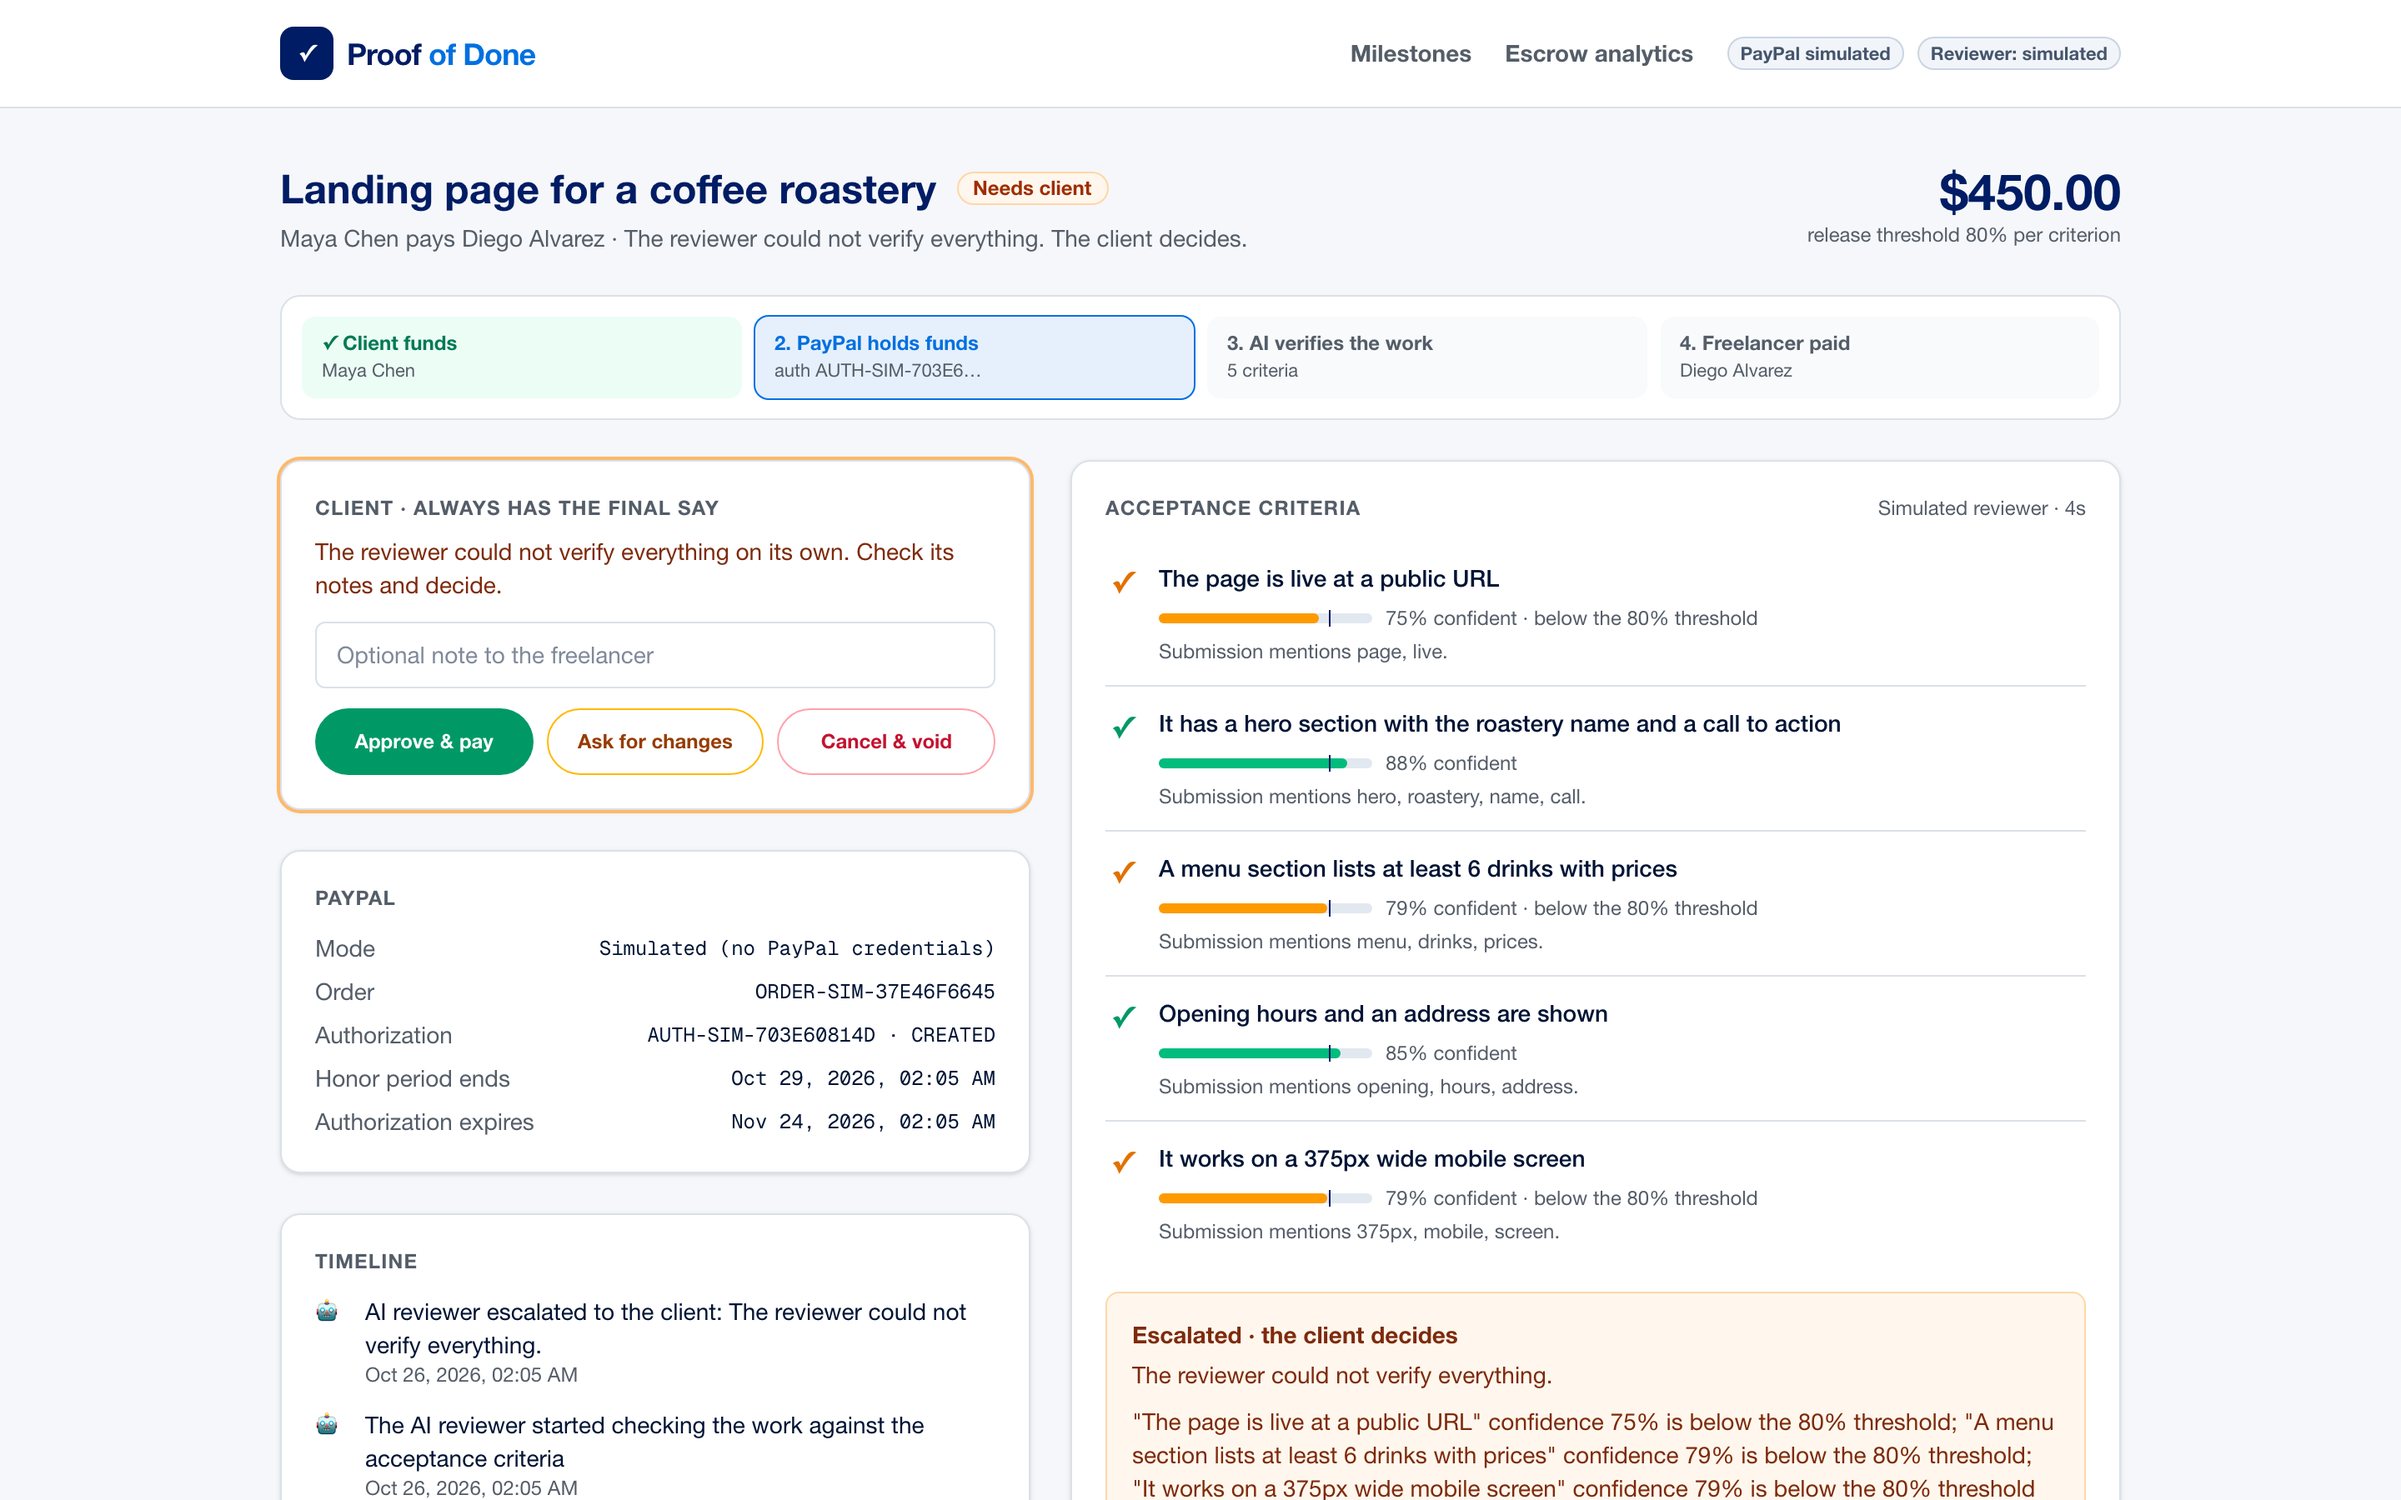
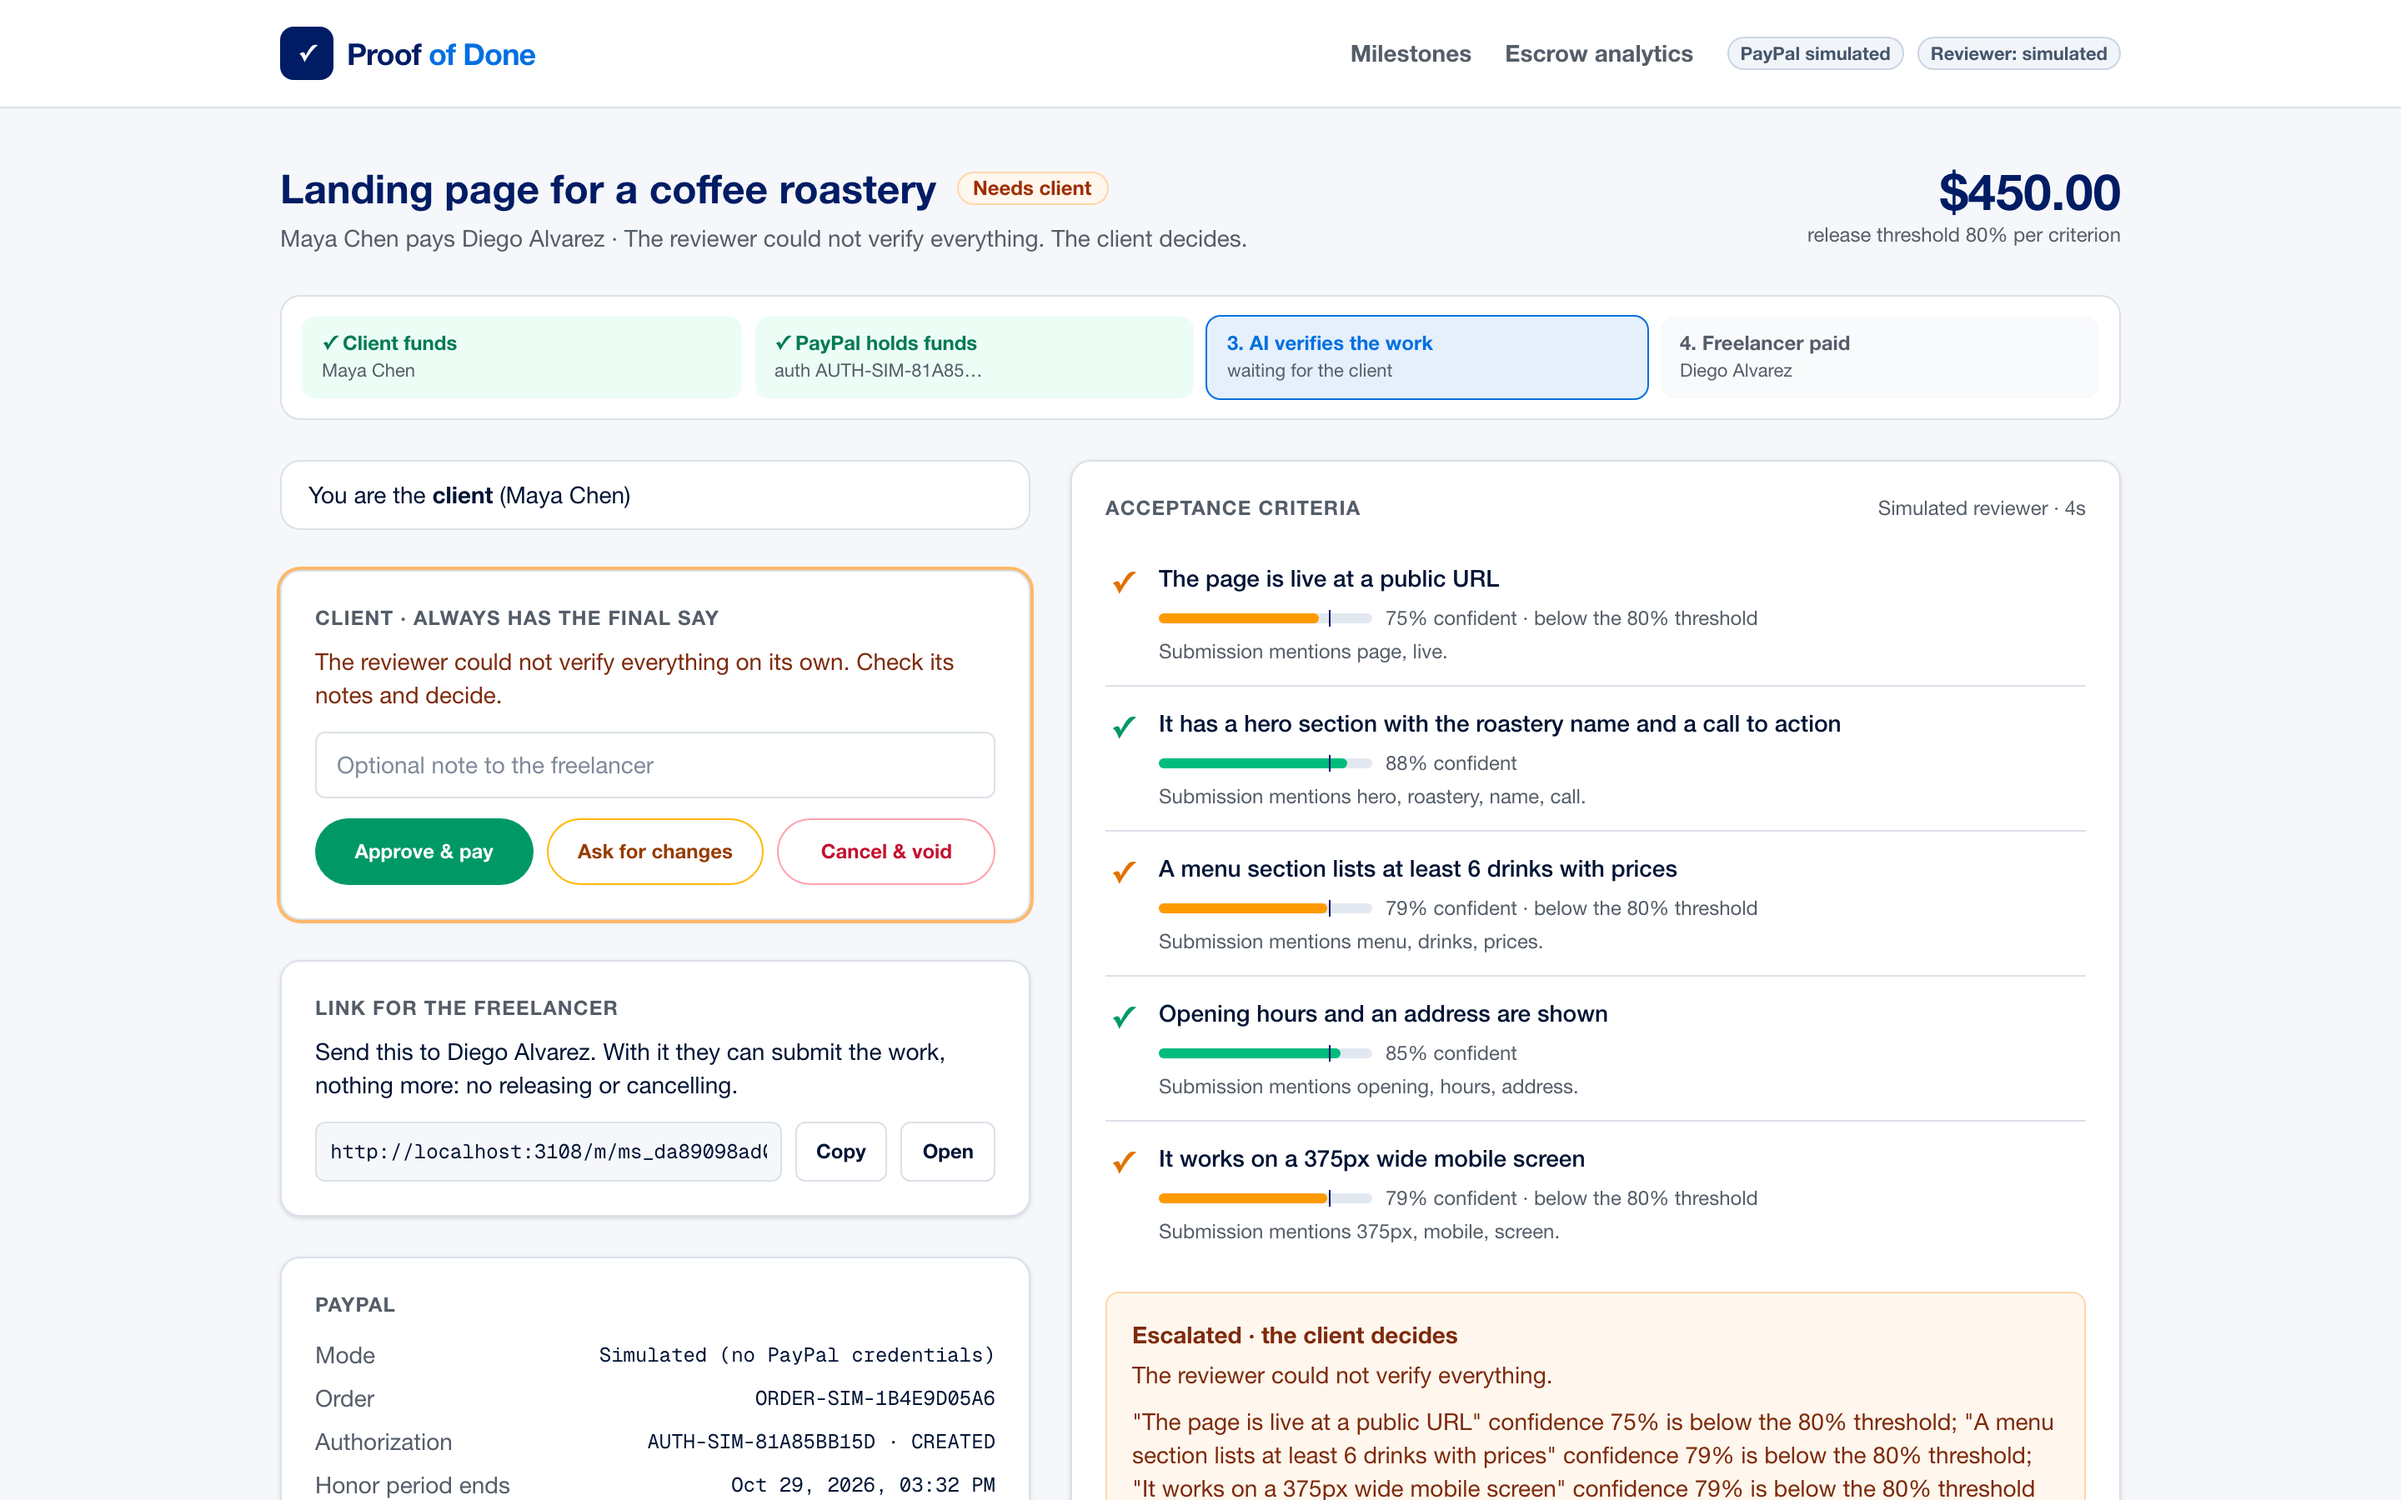
Dashboard: cancelled money out of the pipeline, gauge shows its value; fresh screenshots
- Cancelled milestones were counted as "2% of escrow" in the pipeline and in the escrowed-value
  charts although their hold was voided. New `escrowed` measure (amount, or 0 when cancelled) for
  the pipeline, weekly chart, donut and treemap; the widget skips empty stages.
- Pipeline cards: one-line labels and captions, so six stages no longer overlap.
- Radial gauge: a partial `label` object replaced Studio's defaults and hid the value; it now
  shows 73% in the middle.
- Rate limits on milestone creation and demo seeding.
- Progress strip marks the review step as active while the client decides or changes are due.
- Built-in report storage key bumped so browsers drop their stale copy.
- README screenshots retaken from the current UI.

Changed region(s): [[0.125, 0.3111, 0.4375, 1.0], [0.5, 0.2178, 0.5938, 0.2489], [0.3125, 0.2178, 0.4062, 0.2489]]

diff --git a/app/dashboard/studio/initial-report.ts b/app/dashboard/studio/initial-report.ts
@@ -56,14 +56,14 @@ const overview: AgPageState = {
     // Custom widget (./pipeline-widget.tsx): the escrow lifecycle as a pipeline.
     pipeline: {
       type: 'escrow-pipeline',
-      dataMapping: { stage: [{ id: 'milestones.stage' }], amount: [sum('milestones.amount')] },
+      dataMapping: { stage: [{ id: 'milestones.stage' }], amount: [sum('milestones.escrowed')] },
       format: title('Escrow pipeline: where every dollar is right now'),
     } as unknown as NonNullable<AgPageState['widgets']>[string],
     'value-by-week': {
       type: 'column-chart-stacked',
       dataMapping: {
         categoryKey: [{ id: 'milestones.createdDate::week' }],
-        valueKey: [sum('milestones.amount')],
+        valueKey: [sum('milestones.escrowed')],
         legendKey: [{ id: 'milestones.stage' }],
       },
       format: { ...title('Escrowed value by week, by stage'), style: legend },
@@ -71,23 +71,17 @@ const overview: AgPageState = {
     'auto-release': {
       type: 'radial-gauge',
       dataMapping: { value: [{ id: 'autoReleaseRate' }] },
-      format: {
-        ...title('Paid without the client stepping in'),
-        style: {
-          scaleLabel: { min: 0, max: 1 },
-          label: { typography: typography(24, 'bold') },
-          secondaryLabel: { enabled: true, text: 'AI auto-release rate', typography: typography(12) },
-        },
-      },
+      // Leave `label` unset: a partial label object replaces Studio's defaults and hides the value.
+      format: { ...title('Paid without the client stepping in'), style: { scaleLabel: { enabled: true, min: 0, max: 1 } } },
     },
     'stage-donut': {
       type: 'donut-chart',
-      dataMapping: { categoryKey: [{ id: 'milestones.stage' }], valueKey: [sum('milestones.amount')] },
+      dataMapping: { categoryKey: [{ id: 'milestones.stage' }], valueKey: [sum('milestones.escrowed')] },
       format: { ...title('Where the money is'), style: { custom: { pieDataLabel: { enabled: true }, totalLabel: { enabled: true } } } },
     },
     'category-treemap': {
       type: 'treemap-chart',
-      dataMapping: { categoryKey: [{ id: 'milestones.category' }, { id: 'milestones.title' }], valueKey: [sum('milestones.amount')] },
+      dataMapping: { categoryKey: [{ id: 'milestones.category' }, { id: 'milestones.title' }], valueKey: [sum('milestones.escrowed')] },
       format: title('Escrowed value by type of work'),
     },
     'milestone-grid': {

diff --git a/app/dashboard/studio/pipeline-widget.tsx b/app/dashboard/studio/pipeline-widget.tsx
@@ -19,6 +19,8 @@ function valueOf(row: Record<string, any>, field: { id: string; key?: string }, 
   return key ? row[key] : Object.values(row)[index];
 }
 
+const oneLine = { whiteSpace: 'nowrap', overflow: 'hidden', textOverflow: 'ellipsis' } as const;
+
 const money = (n: number) => n.toLocaleString('en-US', { style: 'currency', currency: 'USD', maximumFractionDigits: 0 });
 
 export function EscrowPipelineWidget(props: AgWidgetParams<any>) {
@@ -49,7 +51,7 @@ export function EscrowPipelineWidget(props: AgWidgetParams<any>) {
       const countOf = (r: Record<string, any>) => Number(r[countField.key] ?? 0);
       const parsed = rows
         .map((r) => ({ label: String(valueOf(r, stage, 0) ?? '(blank)'), value: Number(valueOf(r, amount, 1) ?? 0), count: countOf(r) }))
-        .filter((s) => s.label !== '(blank)' && s.label !== 'null')
+        .filter((s) => s.label !== '(blank)' && s.label !== 'null' && s.value > 0)
         .sort((a, b) => a.label.localeCompare(b.label));
       if (parsed.length === 0) {
         widgetApi.setDisplayState('noData');
@@ -92,10 +94,10 @@ export function EscrowPipelineWidget(props: AgWidgetParams<any>) {
               justifyContent: 'space-between',
             }}
           >
-            <div style={{ fontSize: 12, fontWeight: 700, color, textTransform: 'uppercase', letterSpacing: 0.4 }}>{label}</div>
+            <div style={{ ...oneLine, fontSize: 11, fontWeight: 700, color, textTransform: 'uppercase', letterSpacing: 0.4 }}>{label}</div>
             <div>
-              <div style={{ fontSize: 22, fontWeight: 700, color: 'var(--pp-ink)' }}>{money(s.value)}</div>
-              <div style={{ fontSize: 12, color: 'var(--pp-muted)' }}>
+              <div style={{ fontSize: 20, fontWeight: 700, color: 'var(--pp-ink)' }}>{money(s.value)}</div>
+              <div style={{ ...oneLine, fontSize: 11, color: 'var(--pp-muted)' }}>
                 {pct}% of escrow{showCounts && s.count ? ` · ${s.count} milestone${s.count === 1 ? '' : 's'}` : ''}
               </div>
             </div>

diff --git a/app/m/[id]/milestone-view.tsx b/app/m/[id]/milestone-view.tsx
@@ -178,14 +178,14 @@ export function MilestoneView({
 }
 
 function MoneyFlow({ m }: { m: Milestone }) {
-  const stage =
-    m.status === 'awaiting_funding' ? 0 : m.status === 'released' ? 3 : m.status === 'cancelled' ? -1 : m.status === 'reviewing' ? 2 : 1;
+  const stage = { awaiting_funding: 0, funded: 1, reviewing: 2, changes_requested: 2, escalated: 2, released: 3, cancelled: -1 }[m.status];
+  const reviewNote = { reviewing: 'checking now', changes_requested: 'changes requested', escalated: 'waiting for the client' }[m.status as string];
   // A client can approve and pay without an AI review; don't show that step as done then.
   const aiSkipped = m.status === 'released' && !m.timeline.some((e) => e.type === 'verified');
   const steps = [
     { label: 'Client funds', sub: m.client.name },
     { label: 'PayPal holds funds', sub: m.payment.authorizationId ? `auth ${m.payment.authorizationId.slice(0, 14)}…` : 'authorize intent' },
-    { label: 'AI verifies the work', sub: aiSkipped ? 'skipped: client approved' : `${m.criteria.length} criteria` },
+    { label: 'AI verifies the work', sub: aiSkipped ? 'skipped: client approved' : (reviewNote ?? `${m.criteria.length} criteria`) },
     { label: 'Freelancer paid', sub: m.payment.captureId ? `capture ${m.payment.captureId.slice(0, 14)}…` : m.freelancer.name },
   ];
   return (

diff --git a/app/api/escrow/milestones/route.ts b/app/api/escrow/milestones/route.ts
@@ -2,11 +2,13 @@ import { publicMilestone } from '@/lib/escrow/access';
 import { handle } from '@/lib/escrow/http';
 import { createMilestone } from '@/lib/escrow/service';
 import { listMilestones } from '@/lib/escrow/store';
+import { allowRequest } from '@/lib/rate-limit';
 
 export const GET = handle(async () => Response.json({ milestones: listMilestones().map(publicMilestone) }));
 
 // The creator is the client: they get their own key and the link to send to the freelancer.
 export const POST = handle(async (request: Request) => {
+  if (!allowRequest(request, 'create', 30)) return Response.json({ error: 'Too many requests, try again in a minute.' }, { status: 429 });
   const milestone = createMilestone(await request.json());
   return Response.json(
     { milestone: publicMilestone(milestone), clientKey: milestone.access!.clientKey, freelancerKey: milestone.access!.freelancerKey },

diff --git a/app/api/escrow/demo/route.ts b/app/api/escrow/demo/route.ts
@@ -1,10 +1,12 @@
 import { handle } from '@/lib/escrow/http';
 import { seedDemo } from '@/lib/escrow/demo';
 import { deleteAll, listMilestones } from '@/lib/escrow/store';
+import { allowRequest } from '@/lib/rate-limit';
 
 // POST { reset?: boolean } - adds labelled demo milestones (simulated payments) for the dashboard.
 // Wiping existing data is only allowed in development, or when POD_ALLOW_RESET=1.
 export const POST = handle(async (request: Request) => {
+  if (!allowRequest(request, 'demo', 3)) return Response.json({ error: 'Demo data was just added - try again in a minute.' }, { status: 429 });
   const body = (await request.json().catch(() => ({}))) as { reset?: boolean };
   if (body.reset) {
     if (process.env.NODE_ENV === 'production' && process.env.POD_ALLOW_RESET !== '1') {

diff --git a/lib/escrow/analytics.ts b/lib/escrow/analytics.ts
@@ -15,6 +15,8 @@ export type MilestoneRow = {
   freelancer: string;
   currency: string;
   amount: number;
+  /** The amount, except for cancelled milestones: their hold was voided, so the money is back with the client. */
+  escrowed: number;
   onHold: number;
   released: number;
   voided: number;
@@ -130,6 +132,7 @@ export function getEscrowDashboardData(): EscrowDashboardData {
       freelancer: m.freelancer.name,
       currency: m.currency,
       amount,
+      escrowed: m.status === 'cancelled' ? 0 : amount,
       onHold: ['funded', 'reviewing', 'changes_requested', 'escalated'].includes(m.status) ? amount : 0,
       released: m.status === 'released' ? amount : 0,
       voided: m.status === 'cancelled' && m.payment.authorizationId ? amount : 0,

diff --git a/app/dashboard/studio/data.ts b/app/dashboard/studio/data.ts
@@ -76,6 +76,7 @@ export function buildStudioData(data: EscrowDashboardData): AgDataSourcesDefinit
           ['freelancer', 'Freelancer', 'textFormat'],
           ['currency', 'Currency', 'textFormat'],
           ['amount', 'Amount', 'currencyFormat'],
+          ['escrowed', 'Escrowed', 'currencyFormat'],
           ['onHold', 'On Hold', 'currencyFormat'],
           ['released', 'Released', 'currencyFormat'],
           ['voided', 'Voided', 'currencyFormat'],

diff --git a/app/dashboard/reports-store.ts b/app/dashboard/reports-store.ts
@@ -18,7 +18,8 @@ export type SavedReport = {
 
 export type StoredReports = { reports: SavedReport[]; activeId: string };
 
-const STORAGE_KEY = 'proof-of-done:reports:v1';
+// Bump when the built-in report changes, so browsers drop their stale copy.
+const STORAGE_KEY = 'proof-of-done:reports:v2';
 
 export const BUILT_IN_ID = 'escrow-overview';
 
